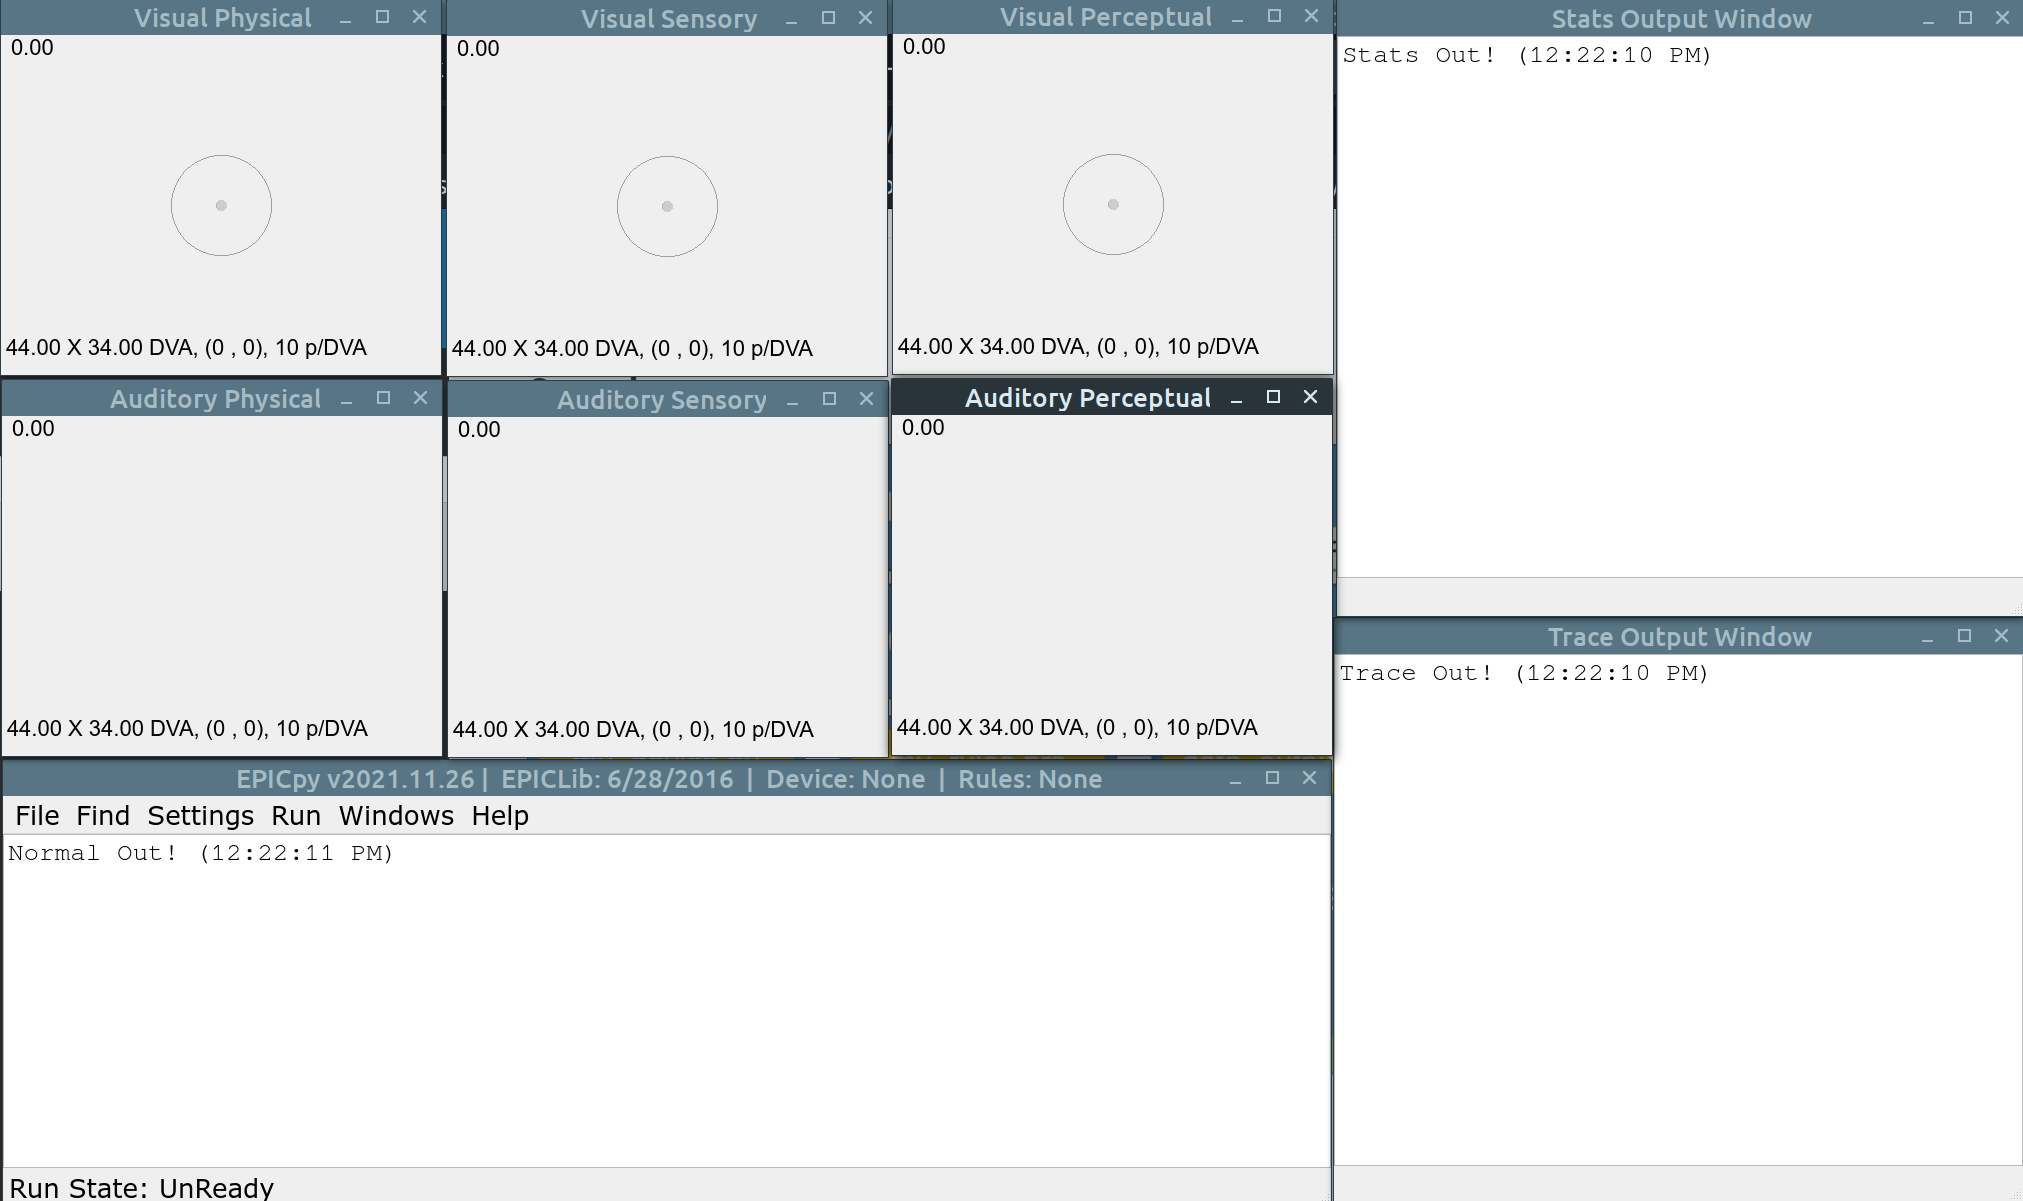
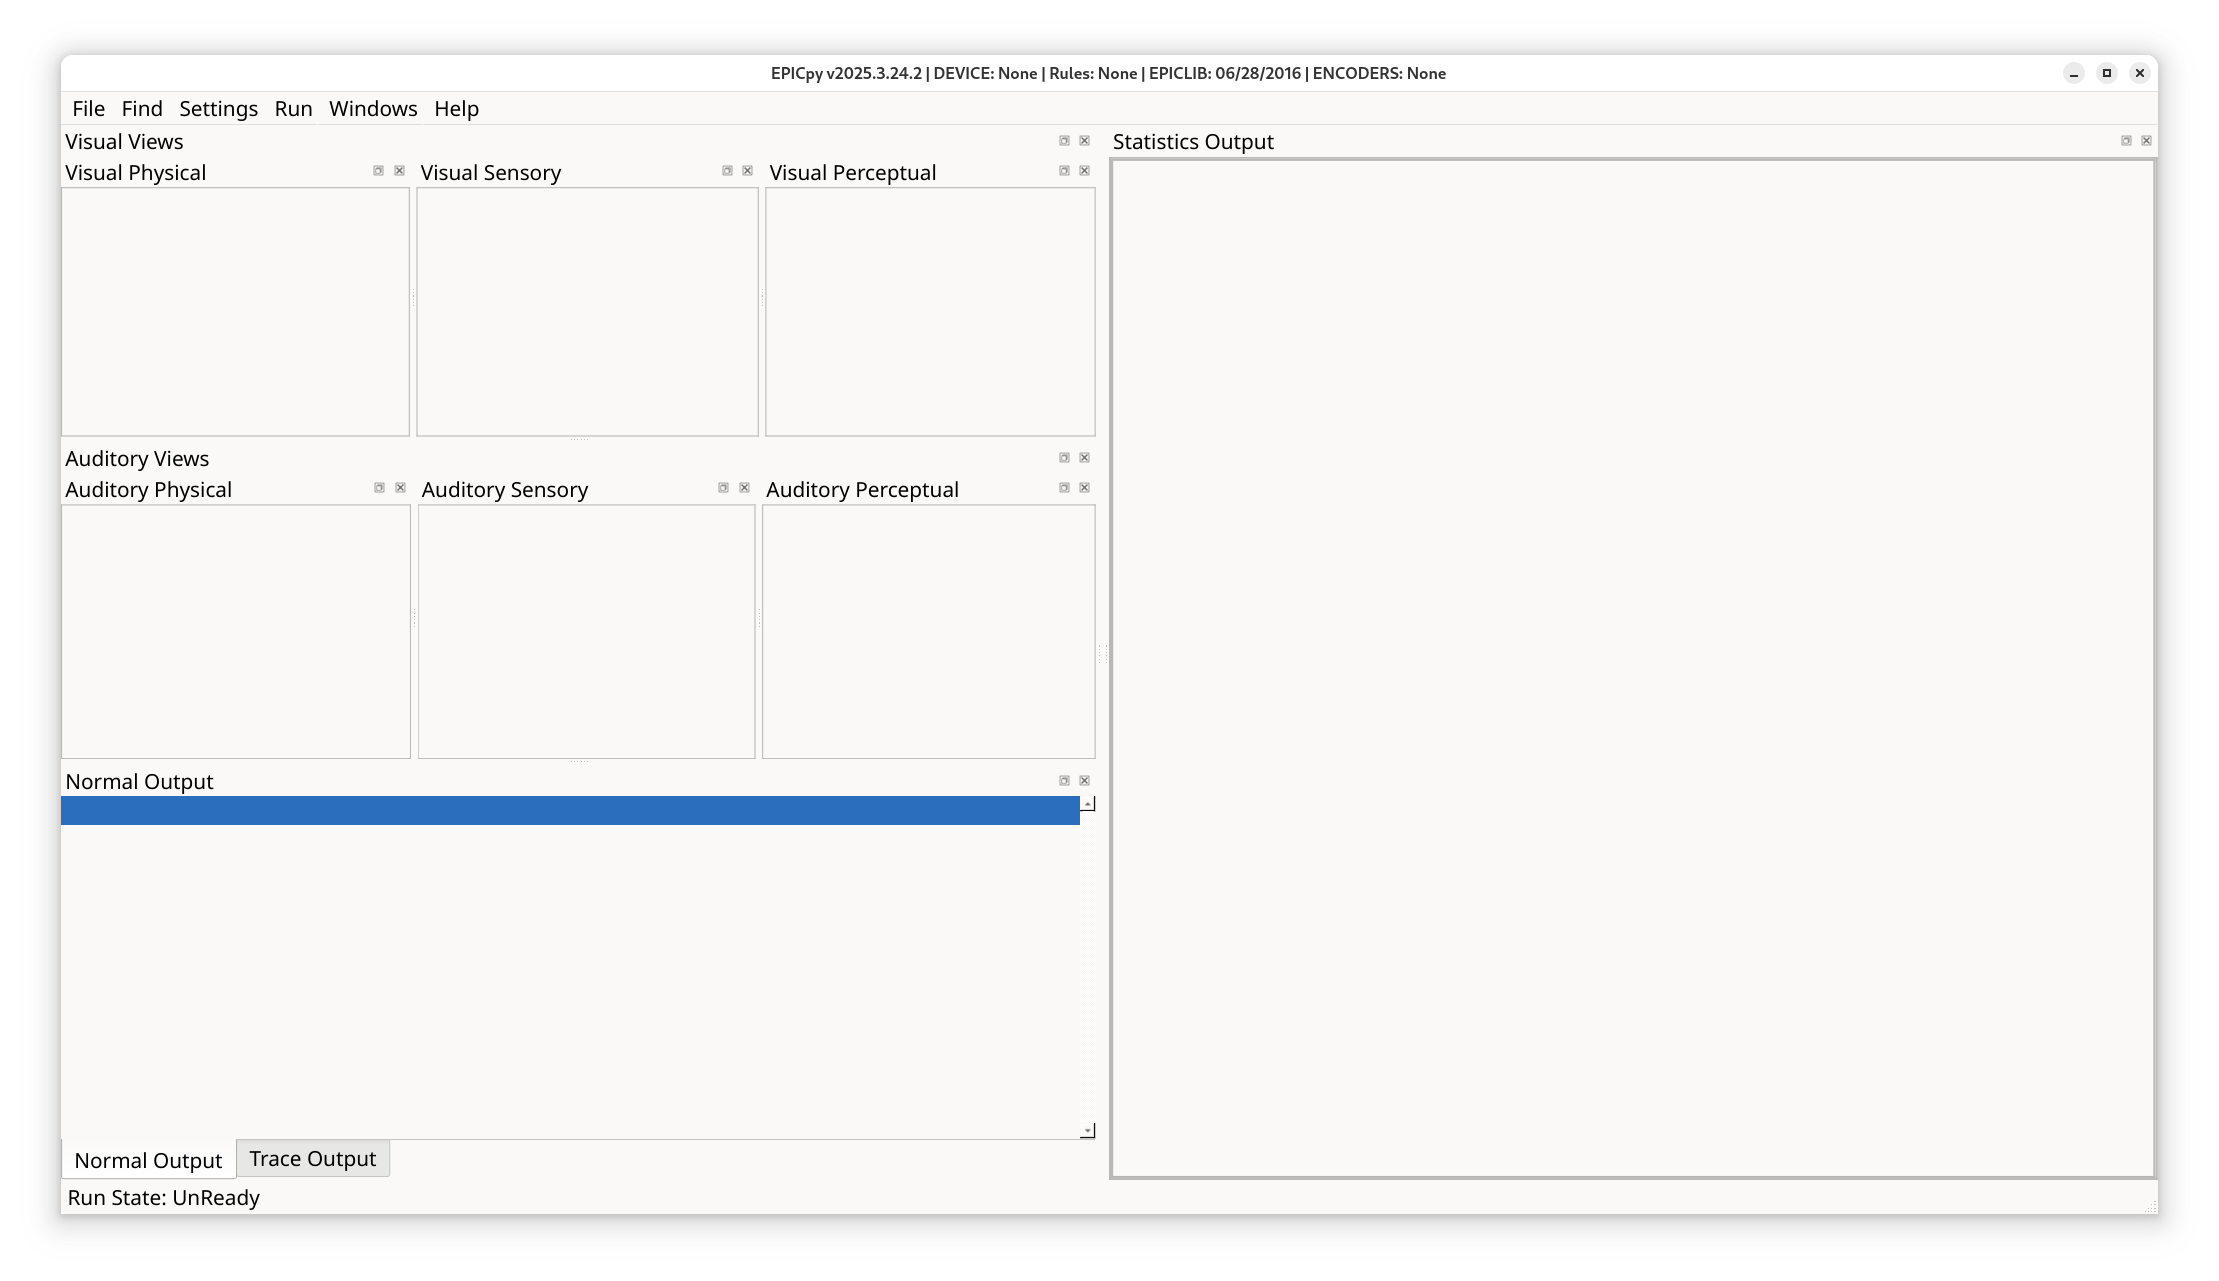
Edited install isntructions. Started updating ui to show unified docking interface.

diff --git a/docs/installing.md b/docs/installing.md
@@ -56,7 +56,7 @@ If you prefer a command-line solutions:
     1. Install [scoop](https://scoop.sh/)
     2. run `scoop install git`
 - Linux:
-    1. run `sudo apt install git` (replace `apt install` with whatever works on your system)
+    1. run `sudo apt install git`
 
 **Installing `uv`**
 
@@ -137,39 +137,7 @@ ls
 dir # ls will also work if you are using powershell
 ```
 
-### <font color="blue">**Downloading EPICpy and epiccoder [EASY Approach]**</font>
-
-I have created a python program that you can use to install `EPICpy` and `epiccoder` easily if you have `uv` installed. 
-
-_NOTE: If you are wisely not in the habit or running random code files, feel free to inspect [tool_install.py](https://git.ucsc.edu/nogard/mhpfiles/-/blob/main/tool_install.py) before taking this next step to ensure that there are no malicious steps. If you want some assurance, consider pasting the code into a LLM and asking it what the code does (or whatever approach you'd like to do to reassure yourself)._
-
-Simply running this command should work on MacOS, Linux, and Windows:
-
-```bash
-uv run tool_install.py
-```
-
-If it fails, it will try to tell you what prerequisite you are missing. Although it requires that you have at least installed `uv` and have _some_ version of Python installed.
-
-
-To ensure that `EPICpy` correctly installed, try running it:
-
-```bash
-EPICpy
-```
-
-If you see the EPICpy graphical interface, it worked!
-
-To ensure that `epiccoder` correctly installed, try running it:
-
-```bash
-epiccoder
-```
-
-If you see the epiccoder graphical interface, it worked!
-
-
-### <font color="blue">**Downloading EPICpy and epiccoder [Manual Approach]**</font>
+### <font color="blue">Downloading EPICpy and epiccoder</font>
 
 To install `EPICpy` and `epiccoder` manually, first make sure you have successfully installed curl, git, uv, and either Python3.9 (if you run Windows), or Python3.10 (if you run Linux or MacOs).
 
@@ -273,12 +241,6 @@ If you see the epiccoder graphical interface, it worked!
 
 ```bash
 uv tool upgrade EPICpy epiccoder
-```
-
-or use this script:
-
-```bash
-uv run update_tools.py
 ```
 
 Now, run a simulation:
